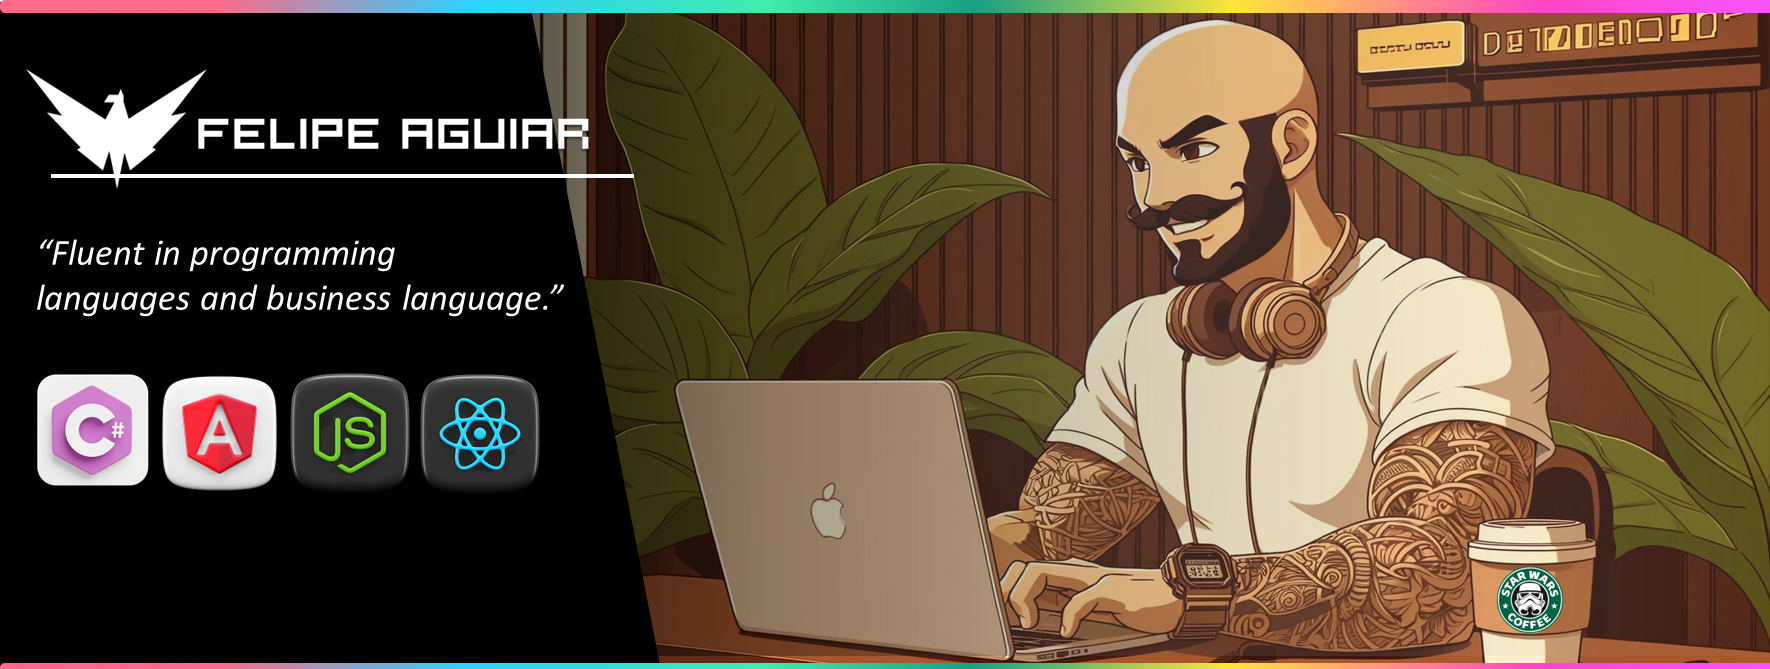
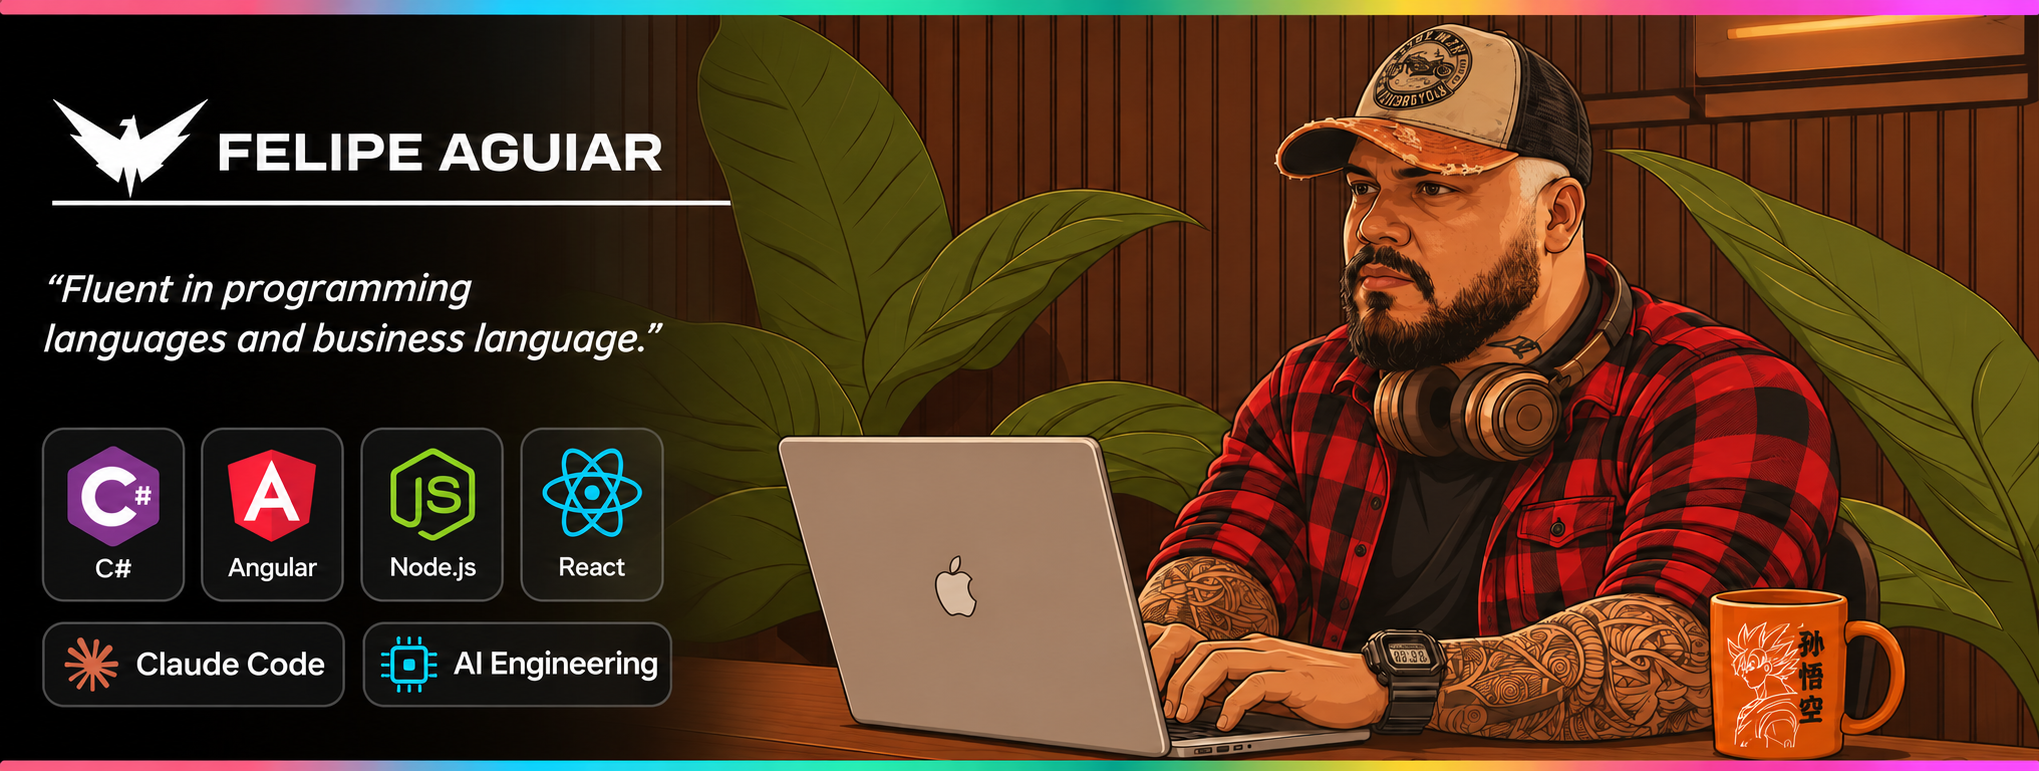
Compact README and add AI Engineering & Harness section
- Add AI Engineering & Harness section with harness flow
- Add second stack row with AI logos (Claude, MCP, Cursor, Copilot, Ollama, Hugging Face)
- Trim About me and merge duplicate contact blocks
- Pin AI repos: hotwheels-platform-with-harness, my-agent-studio, squad-code-network
- Update banner and add banner_3 asset

Claude-Session: https://claude.ai/code/session_01Tt5vEJmQ7RKppfh3mw6HYx

diff --git a/README.md b/README.md
@@ -3,38 +3,33 @@
   <img height="350em" src="./.github/assets/banner.png"/>
 </div>
 
-**`Digital Craftsman (Developer/Creator)`**
-
 <h3 align="center">
-  FullStack Developer • Tech Instructor • Youtuber
+  FullStack Developer • Tech Instructor • AI Engineering
 </h3>
-
+<p align="center"><code>Digital Craftsman — building AI-native software, model + harness.</code></p>
 
 <img src="./.github/assets/lineBar.png" width="100%" height="8px"/>
 
-<div><br />
-
 <p><strong>About me</strong></p>
 
-- <img src="https://raw.githubusercontent.com/Tarikul-Islam-Anik/Animated-Fluent-Emojis/master/Emojis/Hand%20gestures/Hand%20with%20Fingers%20Splayed%20Light%20Skin%20Tone.png" alt="Hand with Fingers Splayed Light Skin Tone" width="25" height="25" /> Hello! My name is Felipe Aguiar and I am a FullStack Developer and Graduate in computer science.. <br />
-- <img src="https://raw.githubusercontent.com/Tarikul-Islam-Anik/Animated-Fluent-Emojis/master/Emojis/Hand%20gestures/Brain.png" alt="Brain" width="25" height="25" /> My current goal is become a Software Architect.<br />
-- <img src="https://raw.githubusercontent.com/Tarikul-Islam-Anik/Animated-Fluent-Emojis/master/Emojis/People%20with%20professions/Man%20Technologist%20Light%20Skin%20Tone.png" alt="Man Technologist Light Skin Tone" width="25" height="25" /> My main stack is .net C# with Angular and NodeJs with React.<br />
-- <img src="https://raw.githubusercontent.com/Tarikul-Islam-Anik/Animated-Fluent-Emojis/master/Emojis/People%20with%20professions/Boy%20Light%20Skin%20Tone.png" alt="Boy Light Skin Tone" width="25" height="25" /> I always try to be a polite and respectful person, and I love interacting with new people and sharing my story.<br />
-- <img src="https://raw.githubusercontent.com/Tarikul-Islam-Anik/Animated-Fluent-Emojis/master/Emojis/People%20with%20professions/Teacher%20Light%20Skin%20Tone.png" alt="Left Speech Bubble" width="25" height="25" /> I'm a Tech Instructor at @DIO_MAKETHECHANGE platform.
+- <img src="https://raw.githubusercontent.com/Tarikul-Islam-Anik/Animated-Fluent-Emojis/master/Emojis/Hand%20gestures/Hand%20with%20Fingers%20Splayed%20Light%20Skin%20Tone.png" alt="Hand with Fingers Splayed Light Skin Tone" width="25" height="25" /> Felipe Aguiar — FullStack Developer, CS graduate and Tech Instructor at @DIO_MAKETHECHANGE.
+- <img src="https://raw.githubusercontent.com/Tarikul-Islam-Anik/Animated-Fluent-Emojis/master/Emojis/Hand%20gestures/Brain.png" alt="Brain" width="25" height="25" /> Goal: Software Architect for AI-native systems — designing the **harness** around the model.
+- <img src="https://raw.githubusercontent.com/Tarikul-Islam-Anik/Animated-Fluent-Emojis/master/Emojis/People%20with%20professions/Man%20Technologist%20Light%20Skin%20Tone.png" alt="Man Technologist Light Skin Tone" width="25" height="25" /> .NET C# + Angular · Node.js + React · LLM agents.
+
+## 🧠 &nbsp;AI Engineering & Harness
+
+```txt
+spec ─▶ context ─▶ model ─▶ tools/MCP ─▶ hooks · guardrails ─▶ evals ─▶ ship
+```
+
+- **AI Engineering** : LLM apps, RAG, prompt & context engineering, evals.
+- **Harness** : agent loop, tools & MCP, hooks, subagents, memory, observability.
+- **Workflow** : Spec-Driven Development · AGENTS.md / CLAUDE.md · skills.
 
 ## &nbsp;My Stack
 
-<img src="https://skillicons.dev/icons?i=vscode,html,css,js,cs,angular,ts,nodejs,react,nextjs,tailwind,aws,git,github,postgres&theme=dark" />
-
-#
-
-  <p><strong>Entre em contato comigo</strong></p>
-
-<div align="left">
-  <a href="https://www.linkedin.com/in/felipe-me/" ><img src="https://img.shields.io/static/v1?message=LinkedIn&logo=linkedin&label=&color=0077B5&logoColor=white&labelColor=&style=for-the-badge" height="32" alt="linkedin logo" style="display: inline-block;" /></a>
-</div>
-
-#
+<img src="https://skillicons.dev/icons?i=vscode,html,css,js,cs,angular,ts,nodejs,react,nextjs,tailwind,aws,git,github,postgres&theme=dark" /><br/>
+<img src="https://go-skill-icons.vercel.app/api/icons?i=claude,mcp,cursor,githubcopilot,ollama,huggingface&theme=dark" />
 
 <h3>Contact Me</h3>
 <div align="left">
@@ -87,27 +82,44 @@ Mais vídeos do Felipão? [Veja meu Canal do Youtube.](https://www.youtube.com/@
 	<tbody>
 		<tr>
 			<td align="center" valign="top" width="80"><br />
-			<a href="https://github.com/felipeAguiarCode/angular-playground">
-      <img src="./.github/assets/icons/angular.webp" />
+			<a href="https://github.com/felipeAguiarCode/hotwheels-platform-with-harness">
+      <img src="./.github/assets/documentation.png" width="48" />
       </a>
       </td>
 			<td valign="top">
-			<h3>Angular Playground</h3>
-			<p>Exemplos práticos das principais competências de Angular.</p>
-			<a href="https://github.com/felipeAguiarCode/angular-playground">
- 			 	<img src="https://img.shields.io/badge/Ver%20Material-E94D5F?style=for-the-badge" alt="Material de Apoio">
+			<h3>Hotwheels Platform with Harness</h3>
+			<p>Projeto spec-driven construído com harness de agentes.</p>
+			<a href="https://github.com/felipeAguiarCode/hotwheels-platform-with-harness">
+ 			 	<img src="https://img.shields.io/badge/Ver%20Repo-E94D5F?style=for-the-badge" alt="Ver Repo">
 			</a>
 			</td>
 		</tr>
 		<tr>
 			<td align="center" valign="top" width="80"><br />
-			<a href="https://github.com/felipeAguiarCode/angular-blog">
-      <img src="./.github/assets/documentation.png" />
+			<a href="https://github.com/felipeAguiarCode/my-agent-studio">
+      <img src="https://go-skill-icons.vercel.app/api/icons?i=claude&theme=dark" width="48" />
       </a>
       </td>
 			<td valign="top">
-			<h3>Angular Blog</h3>
-			<p>An Simple blog with Angular, good pratices for folder structure.</p>
+			<h3>My Agent Studio</h3>
+			<p>Crie agentes de IA como personagens e exporte em Markdown para o Claude Code.</p>
+			<a href="https://github.com/felipeAguiarCode/my-agent-studio">
+ 			 	<img src="https://img.shields.io/badge/Ver%20Repo-E94D5F?style=for-the-badge" alt="Ver Repo">
+			</a>
+			</td>
+		</tr>
+		<tr>
+			<td align="center" valign="top" width="80"><br />
+			<a href="https://github.com/felipeAguiarCode/squad-code-network">
+      <img src="https://go-skill-icons.vercel.app/api/icons?i=mcp&theme=dark" width="48" />
+      </a>
+      </td>
+			<td valign="top">
+			<h3>Squad Code Network</h3>
+			<p>Squad de agentes dev (comandante, ADR/PRD, especialistas) que executa sprints com Claude Code headless.</p>
+			<a href="https://github.com/felipeAguiarCode/squad-code-network">
+ 			 	<img src="https://img.shields.io/badge/Ver%20Repo-E94D5F?style=for-the-badge" alt="Ver Repo">
+			</a>
 			</td>
 		</tr>
 	</tbody>
